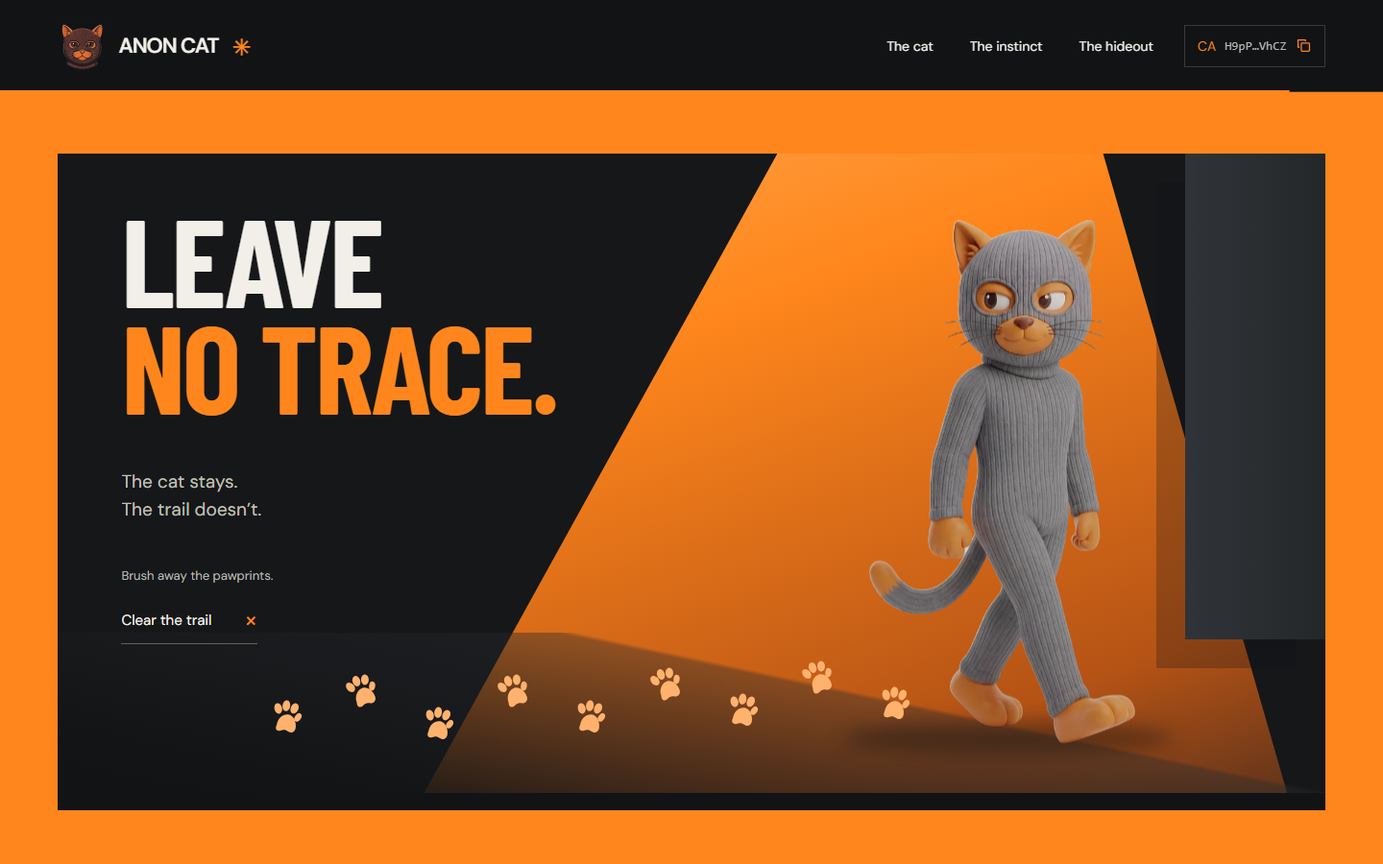
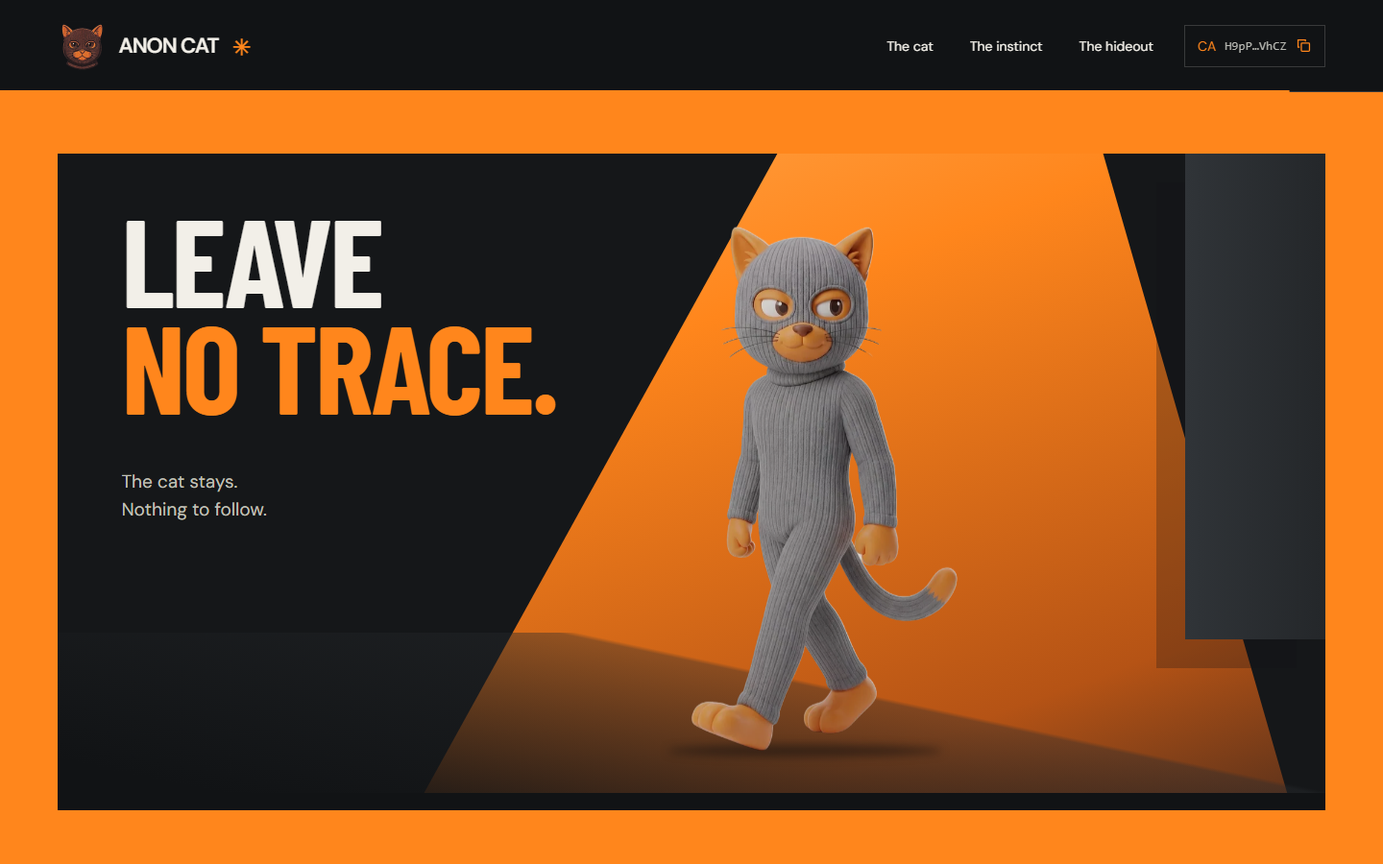
Ground hideout cat and remove pawprint interaction

diff --git a/src/components/sections/LeaveNoTrace.tsx b/src/components/sections/LeaveNoTrace.tsx
@@ -1,115 +1,49 @@
 'use client';
-import {useEffect,useRef,useState,type PointerEvent as ReactPointerEvent,type CSSProperties} from 'react';
+import {useEffect,useRef} from 'react';
 import gsap from 'gsap';
 import DeferredImage from '@/components/DeferredImage';
 
-const trail=[{x:18,y:86},{x:24,y:82},{x:30,y:87},{x:36,y:82},{x:42,y:86},{x:48,y:81},{x:54,y:85},{x:60,y:80},{x:66,y:84}];
-function Paw(){return <svg viewBox="0 0 40 48" fill="currentColor"><ellipse cx="8" cy="13" rx="5" ry="7" transform="rotate(-22 8 13)"/><ellipse cx="18" cy="8" rx="5" ry="7"/><ellipse cx="29" cy="10" rx="5" ry="7" transform="rotate(18 29 10)"/><ellipse cx="35" cy="21" rx="4" ry="6" transform="rotate(28 35 21)"/><path d="M9 34c0-8 6-15 13-15s12 8 12 16c0 6-5 8-9 6-4-2-6-2-10 0-5 2-8-1-6-7Z"/></svg>;}
-
 export default function LeaveNoTrace(){
   const root=useRef<HTMLElement>(null),room=useRef<HTMLDivElement>(null);
-  const actions=useRef<{clear:()=>void;restart:()=>void;brush:(x:number,y:number)=>void}>({clear:()=>{},restart:()=>{},brush:()=>{}});
-  const [ready,setReady]=useState(false),[cleared,setCleared]=useState(false);
-  const clearedRef=useRef(false);
   useEffect(()=>{
     const el=root.current,stage=room.current;if(!el||!stage)return;
-    let disposed=false,started=false,visible=false,frozen=false,frame=0;
-    let steppingAvailable=false,seatedAvailable=false;
+    let disposed=false,started=false,visible=false,frozen=false;
     let context:gsap.Context|null=null,entry:gsap.core.Timeline|null=null,breathe:gsap.core.Tween|null=null;
-    let point={x:0,y:0};const erased=new Set<number>();
-    const prints=Array.from(stage.querySelectorAll<HTMLElement>('.trace-print'));
     const playback=()=>{
       const playing=started&&visible&&!document.hidden&&!frozen;
       el.dataset.tracePlaying=String(playing);
       if(playing){entry?.resume();breathe?.resume();}else{entry?.pause();breathe?.pause();}
     };
-    const erase=(indices:number[])=>{
-      if(!started||disposed)return;
-      indices.forEach(index=>{
-        if(erased.has(index))return;erased.add(index);
-        const print=prints[index];print.dataset.erased='true';
-        context?.add(()=>{
-          gsap.to(print.querySelector('svg'),{opacity:0,scale:1.5,rotation:14,duration:frozen?0:.26,ease:'power2.out',overwrite:true});
-          print.querySelectorAll<HTMLElement>('.trace-dust').forEach((dust,i)=>{
-            if(frozen){gsap.set(dust,{opacity:0});return;}
-            const angle=(i*90+index*17)*Math.PI/180;
-            gsap.fromTo(dust,{opacity:.7,x:0,y:0,scale:1},{opacity:0,x:Math.cos(angle)*26,y:Math.sin(angle)*18-12,scale:.1,duration:.4,ease:'power2.out',overwrite:true});
-          });
-        });
-      });
-      if(erased.size===trail.length&&!clearedRef.current){
-        clearedRef.current=true;setCleared(true);
-        context?.add(()=>{
-          gsap.to('.trace-stepping',{autoAlpha:steppingAvailable&&!seatedAvailable?1:0,duration:frozen?0:.35,ease:'power2.out'});
-          gsap.to('.trace-seated',{autoAlpha:seatedAvailable?1:0,duration:frozen?0:.45,ease:'power2.out'});
-          gsap.to('.trace-light',{opacity:.75,duration:frozen?0:.6,ease:'sine.out'});
-        });
-      }
-    };
-    const reset=()=>{
-      erased.clear();clearedRef.current=false;setCleared(false);
-      prints.forEach(print=>{delete print.dataset.erased;});
-      context?.add(()=>{
-        gsap.killTweensOf('.trace-print svg,.trace-dust,.trace-stepping,.trace-seated');
-        gsap.killTweensOf('.trace-light','opacity');
-        gsap.set('.trace-print svg',{opacity:1,scale:1,rotation:0});
-        gsap.set('.trace-dust',{opacity:0});gsap.set('.trace-stepping',{autoAlpha:steppingAvailable?1:0});gsap.set('.trace-seated',{autoAlpha:!steppingAvailable&&seatedAvailable?1:0});
-        gsap.set('.trace-light',{opacity:1});
-      });
-      entry?.restart();if(!visible||document.hidden||frozen)entry?.progress(1).pause();
-    };
-    const clear=()=>{entry?.progress(1).pause();erase(trail.map((_,i)=>i));};
-    const brush=(x:number,y:number)=>{
-      point={x,y};if(frame||!visible)return;
-      frame=requestAnimationFrame(()=>{
-        frame=0;if(!started||disposed||frozen)return;
-        // Ignore prints not yet laid down by the entrance; vertical touch scrolling stays native.
-        erase(prints.flatMap((print,i)=>{
-          const box=print.getBoundingClientRect();
-          return Number(getComputedStyle(print).opacity)>.5&&Math.hypot(point.x-box.left-box.width/2,point.y-box.top-box.height/2)<48?[i]:[];
-        }));
-      });
-    };
     const initialize=async()=>{
       if(started)return;
-      const images=Array.from(stage.querySelectorAll<HTMLImageElement>('img'));
-      images.forEach(img=>{img.loading='eager';});
-      await Promise.allSettled(images.map(img=>img.decode().catch(()=>img.decode())));
+      const image=stage.querySelector<HTMLImageElement>('.trace-stepping');
+      if(image){image.loading='eager';await image.decode().catch(()=>image.decode().catch(()=>{}));}
       if(disposed||started)return;started=true;
-      steppingAvailable=!!stage.querySelector<HTMLImageElement>('.trace-stepping')?.naturalWidth;
-      seatedAvailable=!!stage.querySelector<HTMLImageElement>('.trace-seated')?.naturalWidth;
       context=gsap.context(()=>{
-        gsap.set('.trace-stepping',{autoAlpha:steppingAvailable?1:0});
-        gsap.set('.trace-seated',{autoAlpha:!steppingAvailable&&seatedAvailable?1:0});
         entry=gsap.timeline({paused:true});
-        entry.fromTo('.trace-cat',{x:-Math.min(stage.clientWidth*.28,320),y:-16,rotation:-3},{x:0,y:0,rotation:0,duration:1.6,ease:'power2.out'},0)
+        entry.fromTo('.trace-cat',{x:Math.min(stage.clientWidth*.14,180)},{x:0,duration:1.4,ease:'power2.out'},0)
           .fromTo('.trace-light',{scaleX:.45},{scaleX:1,duration:1.1,ease:'power3.out'},0)
-          .fromTo('.trace-print',{autoAlpha:0,scale:.7},{autoAlpha:1,scale:1,duration:.3,stagger:.1,ease:'back.out(1.3)'},.18)
           .fromTo('.trace-heading',{y:32,rotation:-2},{y:0,rotation:0,duration:.7,ease:'power3.out'},0);
         breathe=gsap.to('.trace-breathe',{scaleY:1.012,duration:2.6,repeat:-1,yoyo:true,ease:'sine.inOut',transformOrigin:'50% 100%',paused:true});
       },el);
-      actions.current={clear,restart:reset,brush};setReady(true);el.dataset.traceReady='true';
+      el.dataset.traceReady='true';
       if(frozen)entry?.progress(1).pause();playback();
     };
     const observer=new IntersectionObserver(entries=>{
       visible=entries.some(item=>item.isIntersecting);
       if(visible)void initialize();playback();
     },{threshold:.1});observer.observe(stage);
-    const visibility=playback;
     const freeze=()=>{frozen=true;entry?.progress(1).pause();context?.getTweens().forEach((tween:gsap.core.Tween)=>tween.pause());playback();};
-    document.addEventListener('visibilitychange',visibility);document.addEventListener('anon-cat:freeze',freeze);
-    return()=>{disposed=true;cancelAnimationFrame(frame);observer.disconnect();context?.revert();actions.current={clear:()=>{},restart:()=>{},brush:()=>{}};document.removeEventListener('visibilitychange',visibility);document.removeEventListener('anon-cat:freeze',freeze);};
+    document.addEventListener('visibilitychange',playback);document.addEventListener('anon-cat:freeze',freeze);
+    return()=>{disposed=true;observer.disconnect();context?.revert();document.removeEventListener('visibilitychange',playback);document.removeEventListener('anon-cat:freeze',freeze);};
   },[]);
-  const brush=(event:ReactPointerEvent<HTMLDivElement>)=>{if(event.pointerType==='mouse'||event.buttons||event.type==='pointerdown')actions.current.brush(event.clientX,event.clientY);};
-  return <section ref={root} className="trace-section" id="artwork" aria-labelledby="trace-heading" data-trace-state={cleared?'cleared':'trail'}>
-    <div ref={room} className="trace-room" onPointerMove={brush} onPointerDown={brush}>
-      <div className="trace-set" aria-hidden="true"><div className="trace-light"/><div className="trace-floor"/><div className="trace-wall"/><div className="trace-ground-shadow"/>
-        <div className="trace-cat"><div className="trace-breathe"><DeferredImage className="trace-stepping" src="/assets/character/step-cat.webp" alt="" width="800" height="1300"/><DeferredImage className="trace-seated" src="/assets/character/seated-cat.webp" alt="" width="1000" height="1200"/></div></div>
-        {trail.map((paw,i)=><div key={i} className="trace-print" style={{'--paw-x':`${paw.x}%`,'--paw-y':`${paw.y}%`,'--paw-angle':`${i%2?-20:8}deg`} as CSSProperties}><Paw/>{[0,1,2,3].map(n=><span key={n} className="trace-dust"/>)}</div>)}
+  return <section ref={root} className="trace-section" id="artwork" aria-labelledby="trace-heading">
+    <div ref={room} className="trace-room">
+      <div className="trace-set" aria-hidden="true"><div className="trace-light"/><div className="trace-floor"/><div className="trace-wall"/>
+        <div className="trace-cat"><div className="trace-ground-shadow"/><div className="trace-breathe"><DeferredImage className="trace-stepping" src="/assets/character/step-cat.webp" alt="" width="800" height="1300"/></div></div>
       </div>
       <h2 className="trace-heading" id="trace-heading">LEAVE<br/><em>NO TRACE.</em></h2>
-      <p className="trace-copy">The cat stays.<br/>The trail doesn’t.</p>
-      <div className="trace-action"><p id="trace-instruction" aria-live="polite">{cleared?'Still here. Less to follow.':'Brush away the pawprints.'}</p><button type="button" disabled={!ready} onClick={()=>{if(clearedRef.current)actions.current.restart();else actions.current.clear();}}>{cleared?'Let him wander':'Clear the trail'}<span aria-hidden="true">{cleared?'↗':'×'}</span></button></div>
+      <p className="trace-copy">The cat stays.<br/>Nothing to follow.</p>
     </div>
   </section>;
 }

diff --git a/tests/trace.spec.ts b/tests/trace.spec.ts
@@ -6,65 +6,45 @@ async function openScene(page:Page){
   await expect.poll(()=>page.locator('.trace-cat').evaluate(el=>Math.abs(new DOMMatrixReadOnly(getComputedStyle(el).transform).m41))).toBeLessThan(.1);
 }
 
-test('brushing removes local pawprints and keyboard clearing changes the cat pose',async({page})=>{
+test('the hideout settles without pawprints or scene controls and keyboard navigation stays usable',async({page})=>{
   await page.setViewportSize({width:1440,height:900});await openScene(page);
-  await expect(page.locator('.portrait-options,a[download]')).toHaveCount(0);
+  await expect(page.locator('.trace-heading')).toBeInViewport();
+  await expect(page.locator('.trace-print,.trace-action,.trace-seated,.portrait-options,a[download]')).toHaveCount(0);
   await page.screenshot({path:'docs/screenshots/trace-room-desktop.png'});
-  const first=await page.locator('.trace-print').first().boundingBox();expect(first).not.toBeNull();
-  await page.mouse.move(first!.x+first!.width/2,first!.y+first!.height/2);
-  await expect.poll(()=>page.locator('.trace-print[data-erased=true]').count()).toBeGreaterThan(0);
-  expect(await page.locator('.trace-print[data-erased=true]').count()).toBeLessThan(9);
-  await expect.poll(()=>page.locator('.trace-print').first().locator('svg').evaluate(el=>Number(getComputedStyle(el).opacity))).toBe(0);
-  const clear=page.getByRole('button',{name:'Clear the trail',exact:true});await clear.focus();await page.keyboard.press('Enter');
-  await expect(page.locator('#artwork')).toHaveAttribute('data-trace-state','cleared');
-  await expect.poll(()=>page.locator('.trace-seated').evaluate(el=>Number(getComputedStyle(el).opacity))).toBe(1);
-  await expect(page.locator('#trace-instruction')).toHaveText('Still here. Less to follow.');
-  await page.screenshot({path:'docs/screenshots/trace-room-cleared.png'});
+  await page.getByRole('link',{name:'Back to top ↑',exact:true}).focus();
+  await page.keyboard.press('Enter');
+  await expect(page).toHaveURL(/#top$/);
+  await expect(page.getByRole('heading',{level:1})).toBeInViewport();
 });
 
-test('rapid clear and restart actions settle on the final trail without duplicate scene work',async({page})=>{
+test('the scene pauses offscreen and resumes when it is visible again',async({page})=>{
   const errors:string[]=[];page.on('pageerror',e=>errors.push(e.message));await openScene(page);
-  await page.evaluate(()=>{const button=document.querySelector<HTMLButtonElement>('.trace-action button')!;for(let i=0;i<10;i++)button.click();});
-  await expect(page.locator('#artwork')).toHaveAttribute('data-trace-state','trail');
-  await expect(page.locator('.trace-print[data-erased=true]')).toHaveCount(0);
-  await expect.poll(()=>page.locator('.trace-print svg').evaluateAll(nodes=>nodes.every(el=>Number(getComputedStyle(el).opacity)===1))).toBe(true);
-  await page.getByRole('button',{name:'Clear the trail',exact:true}).click();
-  await expect(page.locator('#artwork')).toHaveAttribute('data-trace-state','cleared');
-  await expect.poll(()=>page.locator('.trace-print svg').evaluateAll(nodes=>nodes.every(el=>Number(getComputedStyle(el).opacity)===0))).toBe(true);
+  await expect(page.locator('#artwork')).toHaveAttribute('data-trace-playing','true');
   await page.locator('#top').scrollIntoViewIfNeeded();
   await expect.poll(()=>page.locator('.trace-room').evaluate(el=>el.getBoundingClientRect().top>innerHeight)).toBe(true);
   await expect(page.locator('#artwork')).toHaveAttribute('data-trace-playing','false');
   const paused=await page.locator('.trace-breathe').evaluate(el=>getComputedStyle(el).transform);
   await page.waitForTimeout(200);
   expect(await page.locator('.trace-breathe').evaluate(el=>getComputedStyle(el).transform)).toBe(paused);
+  await page.locator('#artwork').scrollIntoViewIfNeeded();
+  await expect(page.locator('#artwork')).toHaveAttribute('data-trace-playing','true');
   expect(errors).toEqual([]);
 });
 
-test('a failed seated image preserves the visible cat when the trail is cleared',async({page})=>{
-  await page.route('**/assets/character/seated-cat.*',route=>route.abort());await openScene(page);
-  await page.getByRole('button',{name:'Clear the trail',exact:true}).click();
-  await expect(page.locator('#artwork')).toHaveAttribute('data-trace-state','cleared');
-  await expect.poll(()=>page.locator('.trace-stepping').evaluate((img:HTMLImageElement)=>img.naturalWidth>0&&Number(getComputedStyle(img).opacity)===1)).toBe(true);
-  await expect(page.locator('.trace-seated')).toBeHidden();
-});
-
-test('capture freeze holds the scene still and settles subsequent actions immediately',async({page})=>{
-  await openScene(page);await page.getByRole('button',{name:'Clear the trail',exact:true}).click();
-  await page.evaluate(()=>document.dispatchEvent(new Event('anon-cat:freeze')));
-  const snapshot=()=>page.locator('.trace-cat,.trace-breathe,.trace-light,.trace-print svg,.trace-dust,.trace-stepping,.trace-seated').evaluateAll(nodes=>nodes.map(el=>{const s=getComputedStyle(el);return [s.transform,s.opacity,s.visibility];}));
+test('capture freeze holds the scene still through scrolling away and back',async({page})=>{
+  await openScene(page);await page.evaluate(()=>document.dispatchEvent(new Event('anon-cat:freeze')));
+  const snapshot=()=>page.locator('.trace-cat,.trace-breathe,.trace-light,.trace-ground-shadow,.trace-stepping').evaluateAll(nodes=>nodes.map(el=>{const s=getComputedStyle(el);return [s.transform,s.opacity,s.visibility];}));
   const frozen=await snapshot();await page.waitForTimeout(450);expect(await snapshot()).toEqual(frozen);
-  await page.getByRole('button',{name:'Let him wander',exact:true}).click();
-  await page.getByRole('button',{name:'Clear the trail',exact:true}).click();
-  await expect.poll(()=>page.locator('.trace-seated').evaluate(el=>Number(getComputedStyle(el).opacity))).toBe(1);
-  const settled=await snapshot();await page.waitForTimeout(450);expect(await snapshot()).toEqual(settled);
+  await page.locator('#top').scrollIntoViewIfNeeded();await page.locator('#artwork').scrollIntoViewIfNeeded();
+  await expect(page.locator('#artwork')).toHaveAttribute('data-trace-playing','false');
+  await page.waitForTimeout(450);expect(await snapshot()).toEqual(frozen);
 });
 
-test('touch can clear a print while the mobile page keeps native scrolling',async({browser})=>{
+test('the mobile scene keeps native scrolling',async({browser})=>{
   const context=await browser.newContext({viewport:{width:390,height:844},isMobile:true,hasTouch:true});
   const page=await context.newPage();await openScene(page);
-  const first=await page.locator('.trace-print').first().boundingBox();expect(first).not.toBeNull();
-  await page.touchscreen.tap(first!.x+first!.width/2,first!.y+first!.height/2);
-  await expect.poll(()=>page.locator('.trace-print[data-erased=true]').count()).toBeGreaterThan(0);
+  const room=await page.locator('.trace-room').boundingBox();expect(room).not.toBeNull();
+  await page.touchscreen.tap(room!.x+room!.width/2,room!.y+Math.min(room!.height/2,300));
   expect(await page.evaluate(()=>document.documentElement.scrollWidth<=innerWidth)).toBe(true);
   await page.screenshot({path:'docs/screenshots/trace-room-mobile.png'});
   const before=await page.evaluate(()=>scrollY);await page.mouse.wheel(0,250);
@@ -72,11 +52,10 @@ test('touch can clear a print while the mobile page keeps native scrolling',asyn
   await context.close();
 });
 
-test('the new story remains visible without JavaScript or a downloaded gallery',async({browser})=>{
+test('the scene remains visible without JavaScript or a downloaded gallery',async({browser})=>{
   const context=await browser.newContext({javaScriptEnabled:false,viewport:{width:390,height:844}});
   const page=await context.newPage();await page.goto('/#artwork');
   await expect(page.locator('.trace-heading')).toBeVisible();
   await expect.poll(()=>page.locator('.trace-stepping').evaluate((img:HTMLImageElement)=>img.complete&&img.naturalWidth>0)).toBe(true);
-  await expect(page.locator('.trace-print')).toHaveCount(9);
-  await expect(page.locator('a[download]')).toHaveCount(0);await context.close();
+  await expect(page.locator('.trace-print,.trace-action,.trace-seated,a[download]')).toHaveCount(0);await context.close();
 });

diff --git a/src/app/trace.css b/src/app/trace.css
@@ -4,19 +4,13 @@
 .trace-light{position:absolute;inset:-15% 2% -4% 27%;background:linear-gradient(160deg,#ffad56 0%,#ff861c 34%,#b55315 79%,#4c2c1c 100%);clip-path:polygon(48% 0,75% 0,100% 100%,0 100%);transform-origin:75% 0}
 .trace-floor{position:absolute;left:0;right:0;bottom:0;height:27%;background:linear-gradient(12deg,#111315 8%,#282b2e66 62%,transparent 63%);border-bottom:18px solid #111315}
 .trace-wall{position:absolute;right:0;top:0;height:74%;width:11%;background:linear-gradient(90deg,#303438,#24272a);box-shadow:-30px 30px 0 #11131544}
-.trace-ground-shadow{position:absolute;right:12%;bottom:8.5%;width:26%;height:5%;border-radius:50%;background:#11131570;filter:blur(10px)}
-.trace-cat{position:absolute;right:10%;bottom:10%;width:31%;height:79%;transform-origin:50% 100%}
-.trace-breathe{position:relative;width:100%;height:100%}.trace-cat img{position:absolute;inset:0;width:100%;height:100%;object-fit:contain;object-position:50% 100%;filter:brightness(.88)}
-.trace-seated{opacity:0;visibility:hidden}.trace-stepping{opacity:1}
+.trace-cat{position:absolute;right:24%;bottom:9%;width:31%;height:79%;transform-origin:50% 100%}
+.trace-ground-shadow{position:absolute;left:10%;bottom:-6px;width:70%;height:12px;border-radius:50%;background:#17131199;filter:blur(5px)}
+.trace-breathe{position:relative;width:100%;height:100%}
+.trace-cat img{position:absolute;inset:0;width:100%;height:100%;object-fit:contain;object-position:50% 100%;filter:brightness(.88);transform:scaleX(-1)}
 .trace-heading{position:relative;z-index:2;padding:54px 0 0 5%;margin:0;font-family:var(--display);font-size:clamp(82px,9vw,152px);font-weight:700;line-height:.86;letter-spacing:-.025em;max-width:52%;pointer-events:none}
 .trace-heading em{font-style:normal;color:var(--orange)}
 .trace-copy{position:absolute;left:5%;top:48%;margin:0;color:#c1c0ba;font-size:19px;line-height:1.5;pointer-events:none}
-.trace-action{position:absolute;left:5%;top:63%;z-index:4;max-width:38%}
-.trace-action p{font-size:13px;color:#b8b7b0;margin:0 0 12px;line-height:1.4;min-height:19px}
-.trace-action button{display:inline-flex;align-items:center;gap:34px;min-height:49px;padding:9px 0;background:none;border:0;border-bottom:1px solid #f2efe855;color:var(--paper);font-size:15px;text-align:left}
-.trace-action button span{font-size:25px;color:var(--orange);line-height:1}.trace-action button:hover{border-color:var(--orange)}.trace-action button:disabled{opacity:.5}
-.trace-print{position:absolute;left:var(--paw-x);top:var(--paw-y);width:32px;height:39px;color:#ffb26e;transform:translate(-50%,-50%) rotate(var(--paw-angle));opacity:.65}
-.trace-print svg{position:relative;width:100%;height:100%;transform-origin:50% 65%}.trace-dust{position:absolute;left:50%;top:60%;width:5px;height:2px;background:var(--orange);opacity:0;pointer-events:none}
 @media(min-width:1700px){.trace-section{padding:80px 6%}.trace-room{min-height:740px}}
-@media(max-width:1000px){.trace-section{padding:40px 4.2%}.trace-room{height:650px;min-height:650px}.trace-heading{font-size:98px;max-width:56%}.trace-cat{width:39%;right:3%;height:69%}.trace-copy{font-size:17px;top:43%}.trace-action{top:57%;max-width:44%}.trace-print{width:27px;height:33px}}
-@media(max-width:700px){.trace-section{padding:22px 6%;scroll-margin-top:46px}.trace-room{height:740px;min-height:740px}.trace-heading{padding:34px 24px 0;font-size:clamp(70px,20vw,90px);max-width:none;line-height:.9}.trace-copy{left:24px;top:29%;font-size:16px}.trace-action{left:24px;top:40%;max-width:75%}.trace-action p{font-size:12px}.trace-action button{font-size:14px;min-height:48px}.trace-cat{right:0;bottom:11%;width:75%;height:43%}.trace-light{inset:32% -20% 0 -23%;clip-path:polygon(70% 0,87% 0,100% 100%,0 100%)}.trace-wall{width:9%;top:48%;height:27%}.trace-ground-shadow{right:11%;bottom:8%;width:58%;height:3%}.trace-floor{height:22%}.trace-print{width:23px;height:28px}.trace-heading em{color:var(--orange)}}
+@media(max-width:1000px){.trace-section{padding:40px 4.2%}.trace-room{height:650px;min-height:650px}.trace-heading{font-size:94px;max-width:56%}.trace-cat{width:39%;right:15%;height:69%}.trace-copy{font-size:17px;top:43%}.trace-light{clip-path:polygon(64% 0,85% 0,100% 100%,0 100%)}}
+@media(max-width:700px){.trace-section{padding:22px 6%;scroll-margin-top:46px}.trace-room{height:740px;min-height:740px}.trace-heading{padding:34px 24px 0;font-size:clamp(70px,20vw,90px);max-width:none;line-height:.9}.trace-copy{left:24px;top:29%;font-size:16px}.trace-cat{right:14%;bottom:11%;width:75%;height:43%}.trace-light{inset:32% -20% 0 -23%;clip-path:polygon(70% 0,87% 0,100% 100%,0 100%)}.trace-wall{width:9%;top:48%;height:27%}.trace-floor{height:22%}.trace-ground-shadow{height:10px;bottom:-5px}.trace-heading em{color:var(--orange)}}

diff --git a/tests/movement.spec.ts b/tests/movement.spec.ts
@@ -34,7 +34,7 @@ test('compact privacy scenes reveal with scroll without desktop pinning',async({
   }
 });
 
-test('camera, redaction and hideout controls produce actual motion after reload',async({page})=>{
+test('camera, redaction and the hideout entrance produce actual motion after reload',async({page})=>{
   await page.goto('/');await page.reload();
   await expect(page.locator('.hero-scene')).toHaveAttribute('data-welcome','playing');
   await page.mouse.move(1100,160);
@@ -44,9 +44,7 @@ test('camera, redaction and hideout controls produce actual motion after reload'
   await expect.poll(()=>bar.evaluate(el=>new DOMMatrixReadOnly(getComputedStyle(el).transform).a),{intervals:[20]}).toBeGreaterThan(.05);
   await expect.poll(()=>bar.evaluate(el=>new DOMMatrixReadOnly(getComputedStyle(el).transform).a)).toBe(1);
   await page.locator('#artwork').scrollIntoViewIfNeeded();
-  await page.getByRole('button',{name:'Clear the trail',exact:true}).click();
-  await expect(page.locator('#artwork')).toHaveAttribute('data-trace-state','cleared');
-  await page.getByRole('button',{name:'Let him wander',exact:true}).click();
-  await expect.poll(()=>page.locator('.trace-cat').evaluate(el=>Math.abs(new DOMMatrixReadOnly(getComputedStyle(el).transform).m41)),{intervals:[20]}).toBeGreaterThan(10);
+  await expect(page.locator('#artwork')).toHaveAttribute('data-trace-ready','true');
+  await expect.poll(()=>page.locator('.trace-cat').evaluate(el=>new DOMMatrixReadOnly(getComputedStyle(el).transform).m41),{intervals:[20]}).toBeGreaterThan(10);
   await expect.poll(()=>page.locator('.trace-cat').evaluate(el=>Math.abs(new DOMMatrixReadOnly(getComputedStyle(el).transform).m41))).toBeLessThan(.1);
 });

diff --git a/tests/privacy-story.spec.ts b/tests/privacy-story.spec.ts
@@ -31,7 +31,7 @@ test('desktop story restores three full scenes, shutters and reverse scrolling',
   await expect(page.locator('.ethos-cinema')).toHaveAttribute('data-story-chapter','01');
   expect(await page.locator('.silhouette-frame').evaluate(el=>getComputedStyle(el).clipPath)).toMatch(/100%/);
   await page.getByRole('link',{name:'The hideout',exact:true}).click();
-  await expect(page.getByRole('button',{name:'Clear the trail',exact:true})).toBeInViewport();
+  await expect(page.locator('.trace-heading')).toBeInViewport();
 });
 
 test('responsive story removes desktop pinning and restores it without duplicates',async({page})=>{
@@ -56,8 +56,6 @@ for(const height of [600,700])test(`story scene stage fits a ${height}px desktop
 test('direct artwork navigation stays reachable while story initializes',async({page})=>{
   await page.setViewportSize({width:1440,height:900});await page.goto('/#artwork');
   await expect(page.locator('.ethos-cinema')).toHaveAttribute('data-story-ready','true');
-  await expect(page.getByRole('button',{name:'Clear the trail',exact:true})).toBeInViewport();
-  await page.getByRole('button',{name:'Clear the trail',exact:true}).click();
-  await expect(page.locator('#artwork')).toHaveAttribute('data-trace-state','cleared');
+  await expect(page.locator('.trace-heading')).toBeInViewport();
   expect(await page.locator('body').innerText()).not.toContain('<img');
 });

diff --git a/tests/cinema.spec.ts b/tests/cinema.spec.ts
@@ -83,7 +83,7 @@ test('restored cinema keeps navigation to artwork immediate',async({page})=>{
   await expect(page.locator('.ethos-cinema')).toHaveClass(/is-cinematic/);
   await expect(page.locator('.pin-spacer')).toHaveCount(1);
   await page.getByRole('link',{name:'The hideout',exact:true}).click();await expect(page).toHaveURL(/#artwork$/);
-  await expect(page.getByRole('button',{name:'Clear the trail',exact:true})).toBeVisible();
+  await expect(page.locator('.trace-heading')).toBeInViewport();
 });
 
 test('an obsolete saved off value cannot stop animation after removing the switch',async({page})=>{

diff --git a/README.md b/README.md
@@ -24,11 +24,11 @@ npm run test:e2e
 1. A charcoal Blender-rendered hideout with a consistent orange cat in a fitted gray knitted disguise. `Go incognito` uses explicit guarded idle/hide/peek/return states.
 2. A warm editorial fictional character file. Redaction changes only supplied character details and provides accessible “withheld” alternatives.
 3. A short illustrated privacy sequence with restrained, sourced Monero copy and an ordinary link to its official website.
-4. Leave no trace: a sculptural cat scene where visitors brush away pawprints, clear the trail by keyboard or touch, and let the cat wander again. The download gallery is removed.
+4. Leave no trace: the cat moves left across the floor into the orange light and rests without leaving pawprints. Its contact shadow travels with it. The download gallery and trail-clearing controls are removed.
 
 All content and controls are HTML. Animations are enabled throughout, with no motion switch or stored off preference. No autoplay audio, scroll hijacking, fake loader, wallet request, tracking, or runtime third-party font/media request.
 
-The hero keeps its 600ms architectural arrival, automatic hide/peek/return, 180ms pointer response and fixed text/CTA. Manual hide/peek finishes in 720ms and return in 560ms. The original privacy cinema is restored on desktop: a large image stage beside the heading moves through Peek, Walking and Relaxed scenes with shutter wipes over 175vh of scrolling. Scroll progress responds immediately without scrub lag. Compact screens retain three stacked scenes with scroll-driven mask reveals. The hideout replaces the gallery with a 1.6-second entrance and 260ms pawprint dissolves. The sticky header keeps navigation available; animations remain enabled. `PrivacyStory.tsx` owns only the privacy stage and loads its ScrollTrigger code near that section; PageMotion and other components retain their own transforms.
+The hero keeps its 600ms architectural arrival, automatic hide/peek/return, 180ms pointer response and fixed text/CTA. Manual hide/peek finishes in 720ms and return in 560ms. The original privacy cinema is restored on desktop: a large image stage beside the heading moves through Peek, Walking and Relaxed scenes with shutter wipes over 175vh of scrolling. Scroll progress responds immediately without scrub lag. Compact screens retain three stacked scenes with scroll-driven mask reveals. The hideout has a 1.4-second horizontal entrance with a shared character/shadow actor and no pawprints. The sticky header keeps navigation available; animations remain enabled. `PrivacyStory.tsx` owns only the privacy stage and loads its ScrollTrigger code near that section; PageMotion and other components retain their own transforms.
 
 The hiding pose uses the original close-up face with a continuation from the existing full-body artwork. Both move in the same wrapper behind the foreground pillar; responsive sizing preserves the original head framing and the lower mask conceals the feet. No additional media request is needed because the body reuses the responsive hero image.
 
@@ -75,7 +75,7 @@ Use the installed Blender executable's full path if it is not on PATH. The first
 
 Helpers: `node scripts/measure.mjs`, `node scripts/asset-manifest.mjs`, and `node scripts/reference-audit.mjs`. The latter is a reproducible reference capture, not application code. Playwright tests use Chromium and all five requested viewport sizes. Performance measurements are emulated conditions, not claims about every visitor's network or physical device.
 
-`node scripts/capture-motion.mjs` saves a silent recording of the actual production website to `../anon-cat-motion-preview.webm`, demonstrating automatic character motion, quick concealment/return, redaction, native scrolling and pawprint brushing.
+`node scripts/capture-motion.mjs` saves a silent recording of the actual production website to `../anon-cat-motion-preview.webm`, demonstrating automatic character motion, quick concealment/return, redaction, native scrolling and the grounded hideout entrance.
 
 ## Deployment
 

diff --git a/docs/test-results.md b/docs/test-results.md
@@ -1,5 +1,7 @@
 # Production verification — 2026-10-01
 
+The latest hideout correction moves the cat left, keeps its entrance on a fixed floor baseline and moves the contact shadow with the actor. Pawprints, brushing handlers, trail controls and the seated transition are removed. Build and strict TypeScript passed; lint passed. Eleven relevant Chromium checks passed across scene settling, keyboard navigation, visibility pausing/resuming, capture freeze, mobile native scrolling, no-JavaScript rendering, actual motion, artwork navigation, desktop/mobile layout and the production request/asset audit. Visual captures at 390, 768, 1440 and 1920px showed zero pawprints, no horizontal overflow and matching foot/shadow baselines. The final small tablet heading-spacing refinement was build-checked and captured separately. No new performance benchmark was run.
+
 The latest repair fills the hiding pose's horizontal torso cutoff with a continuation from existing approved artwork. Face framing, hide/return timing, foreground occlusion and footer portrait are preserved. Production build and strict TypeScript passed; lint passed. Ten relevant existing Chromium checks passed, covering autoplay and interruption, hero re-entry, PNG recovery, pose request order, manual controls, layout, captures, asset/error auditing and keyboard/media recovery. A subsequent lower-mask adjustment was build-checked and visually verified at 390x844, 768x1024, 1440x768, 1440x900 and 1920x900. It conceals the feet behind the slab. This is not a new performance benchmark; no new site media or dependencies were added.
 
 The official CA supplied by the user is now displayed in full in the footer and available through a compact header copy control. Real clipboard contents were compared with the complete supplied string after header, keyboard/footer and legacy-fallback copying. Denied-copy feedback was checked to ensure it does not falsely report success. Build, strict TypeScript, lint and four existing checks passed (360/768/1440px layout and the production request/asset audit). Header/footer screenshots show the current address placement; no wallet or purchase link was added.
@@ -16,9 +18,9 @@ The comprehensive pass covered existing hero automatic/manual motion and loading
 
 The earlier rendering repair, restored privacy cinema, removal of the motion switch, and decorative-number removal remain in current source. Earlier gallery/download checks describe superseded behavior and are retained only in the delivery history.
 
-## Visual review
+## Earlier verification history and visual review
 
-`trace-room-desktop.png`, `trace-room-cleared.png` and `trace-room-mobile.png` show the replacement. Five full-page screenshots cover 360, 390, 768, 1440 and 1920px widths. The actual production-browser recording includes hero motion, redaction, the restored privacy cinema and pawprint brushing. It contains no invented or composited website frames.
+`trace-room-desktop.png`, `trace-room-cleared.png` and `trace-room-mobile.png` show the replacement. Five full-page screenshots cover 360, 390, 768, 1440 and 1920px widths. The refreshed actual production-browser recording includes hero motion, redaction, the restored privacy cinema and the grounded hideout entrance. Pawprint brushing and trace-room-cleared.png describe the superseded interaction. It contains no invented or composited website frames.
 
 The mobile light pool starts below the headline so the orange words remain legible. Native vertical scrolling is preserved; the scene does not capture pointer input or prevent default touch behavior. Its long-lived entrance/breathing animations pause offscreen and when the tab is hidden. Capture freezing pauses all scene tweens; later actions settle immediately.
 

diff --git a/docs/motion-spec.md b/docs/motion-spec.md
@@ -22,7 +22,7 @@ The decorative performance and manual state are separate. A manual action cancel
 
 The original privacy cinema is restored on desktop at 1001px and above. Its 84svh stage pins at 6% of the viewport for 175vh of scroll travel, with direct progress and no scrub inertia. Peek transitions through three charcoal shutters into Walking on orange, then another wipe reveals Relaxed. The title enlarges as the scenes advance. The stage fits short desktop viewports. Compact screens use three stacked scenes with reversible scroll masks and image depth, without pinning.
 
-ScrollTrigger is imported only within 800px of this section; its three images are then warmed to avoid empty masked scenes. Setup refreshes after font readiness. Late pin creation preserves the following viewport, and direct artwork hashes are realigned unless the visitor has started scrolling. MatchMedia removes pinning and desktop transforms on resize. Other sections keep brief repeatable entrances and native flow: the file rises 60px with a small rotation/disc expansion. The gallery and its downloads are removed. LeaveNoTrace owns the final hideout scene: a 1.6-second pose entrance lays a pawprint trail; pointer brushing or the keyboard/touch clear action dissolves prints in 260ms with small local fragments. Clearing the trail crossfades the cat into its seated pose, and Let him wander restores the entrance. Breathing and entry motion pause offscreen or when the tab is hidden. Touch uses native vertical scrolling. No visitor data, event telemetry or browser storage is added. Redaction finishes within 260ms. Ordinary image markup and a three-card fallback remain available without scripts.
+ScrollTrigger is imported only within 800px of this section; its three images are then warmed to avoid empty masked scenes. Setup refreshes after font readiness. Late pin creation preserves the following viewport, and direct artwork hashes are realigned unless the visitor has started scrolling. MatchMedia removes pinning and desktop transforms on resize. Other sections keep brief repeatable entrances and native flow: the file rises 60px with a small rotation/disc expansion. The gallery and its downloads are removed. LeaveNoTrace owns the final hideout scene: a 1.4-second horizontal entrance moves the character left from a positive x offset, with no vertical travel or actor rotation. Its mirrored walking image and contact shadow share one actor. The shadow center meets the image's bottom baseline throughout travel; breathing is anchored at the feet. Pawprints, brushing, clearing/replay controls and the seated transition are removed. Breathing and entry motion pause offscreen or when the tab is hidden. Touch uses native vertical scrolling. No visitor data, event telemetry or browser storage is added. Redaction finishes within 260ms. Ordinary image markup and a three-card fallback remain available without scripts.
 
 ## Ownership and loading
 
